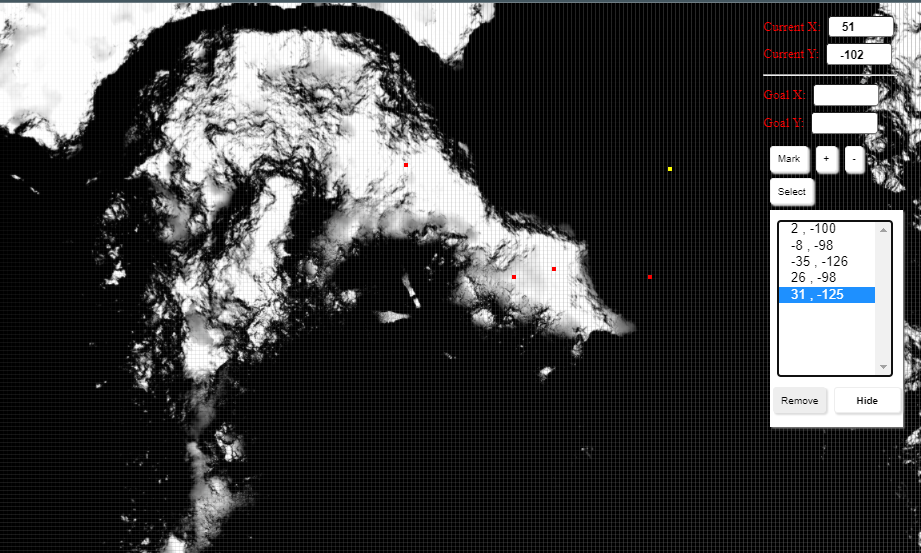
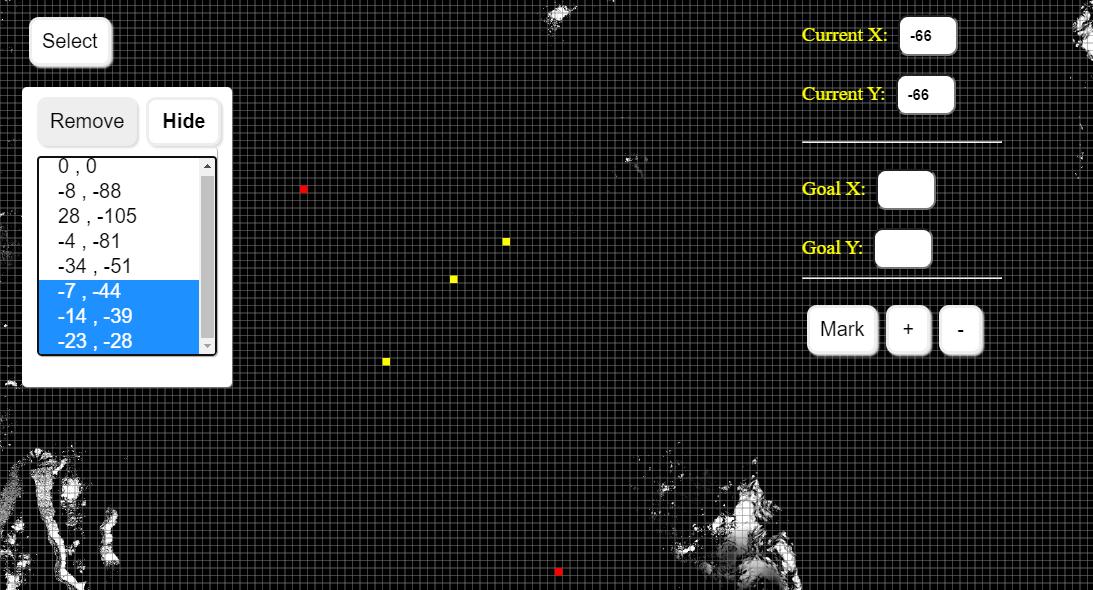
fix:v3.0

diff --git a/index.html b/index.html
@@ -3,14 +3,16 @@
 	<style type="text/css">
 		.map {
 			background-image: url("./map.png");
+            width: 1000px;
+            height: 1000px;
 			background-size:     cover;         
 			background-repeat:   no-repeat;
 			background-position: center center; 
             transition: 100ms;
 		}
 		.img {
-			width: 4000px;
-			height: 4000px;
+			width: 1000px;
+			height: 1000px;
 			position: fixed;
 			top: 0px;
 			left: 0px;
@@ -18,33 +20,33 @@
 		}
 		.edit {
 			display: inline-block;
-			width: 400px;
-			height: 800px;
-			margin-left:80%;
+			width: 200px;
+			height: 400px;
+			margin-left:800px;
 			position: fixed;
-            margin-top: 30px;
+            margin-top: 10px;
 		}
 		label {
-			font-size: 40px;
-			color: red;
+			font-size: 20px;
+			color: yellow;
 		}
 		input {
-			font-size: 35px;
+			font-size: 15px;
 			padding: 10px;
 			border-radius: 10px;
-			width: 200px;
+			width: 60px;
 			font-weight: bold;
-			padding-left: 40px;
-            margin-left: 20px;
+			padding-left: 10px;
+            margin-left: 10px;
 		}
 		.btn , .btn1 {
-			font-size: 30px;
-			padding: 20px;
+			font-size: 20px;
+			padding: 10px;
 			background-color: white;
 			border: 3px solid #eeeeee;
-			box-shadow: 5px 5px 5px #dddddd;
+			box-shadow: 2px 2px 2px #dddddd;
 			border-radius: 10px;
-            margin-left: 20px;
+            margin-left: 5px;
 		}
 		.btn:hover {
 			transform: scale3d(1.1, 1.1 ,1.1);
@@ -56,33 +58,55 @@
 			box-shadow: 5px 5px 5px #dddddd;
 			border: none;
 		}
+        #toggle {
+            width: 75px;
+        }
         .listBox {
-            width: 400px;
-            height: 630px;
+            position: fixed;
+            border-radius: 5px;
+            top: 90px;
+            padding: 5px;
+            padding-top: 10px;
+            width: 200px;
+            height: 280px;
             background-color: #ffffff;
             margin-left: 20px;
             display: none;
-            padding-bottom: 20px;
-            box-shadow: 5px 5px 5px #777777;
+            padding-bottom: 10px;
+            box-shadow: 1px 1px 1px #777777;
         }
     
         .viewlist {
             margin: auto;
-            padding-top: 30px;
+            padding-top: 10px;
             width: 90%;
-            height: 500px;
+            height: 200px;
             overflow: auto;
+            border-radius: 5px;
+            box-shadow: 1px 1px 1px #aaaaaa;
         }
     
         select {
-            width: 350px;
-            height: 470px;
+            width: 180px;
+            height: 200px;
         }
         #removepos {
             margin-left: 10px;
             background-color: #eeeeee;
         }
-        
+        #Clear {
+            position: fixed;
+            top: 20px;
+            left: 30px;
+        }        
+        #zoomOut {
+            padding-left: 15px;
+            padding-right: 15px;
+        }
+        #zoomIn {
+            padding-left: 13px;
+            padding-right: 13px;
+        }
 	</style>
 </head>
 
@@ -94,21 +118,21 @@
 	<label>Current X:</label><input class="input" id="c_x" /> <br /> <br />
 	<label>Current Y:</label><input class="input" id="c_y" /> <br /> <br /> <hr /> <br />
 	<label>Goal X:</label><input class="input" id="g_x" /> <br /> <br />
-	<label>Goal Y:</label><input class="input" id="g_y" /> <br /> <br /> <br />
+	<label>Goal Y:</label><input class="input" id="g_y" /> <br /> <hr /><br />
 	<button class="btn" id="setPos"> Mark </button>
     <button class="btn" id="zoomIn"> + </button>
     <button class="btn" id="zoomOut"> - </button> <br /><br />
-	<button class="btn" id="Clear"> Select </button> <br /><br />
-    <div class="listBox" id="listBox">
-        <div class="viewlist" id="viewlist">
-            <select multiple id="listParent">
-                
-            </select>
-        </div>
-        <div class="Select">
-            <button class="btn1" id="removepos" disabled>Remove</button>
-            <input class="btn1" type="button" value="Hide" id="toggle" disabled/> <br /> <br />
-        </div>
+	
+</div>
+<button class="btn" id="Clear"> Select </button> <br />
+<div class="listBox" id="listBox">
+    <div class="Select">
+        <button class="btn1" id="removepos" disabled>Remove</button>
+        <input class="btn1" type="button" value="Hide" id="toggle" disabled/>
+    </div>
+    <div class="viewlist" id="viewlist">
+        <select multiple id="listParent">
+        </select>
     </div>
 </div>
 </body>
@@ -216,7 +240,7 @@ var drawflag = 1;
                 can.style.top = temptop + (e.clientY - clieckedy) / zoom;
                 can.style.left = templeft + (e.clientX - clieckedx) / zoom;
 
-                console.log("f x:" + clieckedx + "f y:" + clieckedy + "c x:" + e.clientX + "c y:" + e.clientY);
+                // console.log("f x:" + clieckedx + "f y:" + clieckedy + "c x:" + e.clientX + "c y:" + e.clientY);
             }
         });
     }
@@ -253,8 +277,8 @@ var drawflag = 1;
             prevY = currY;
             currX = e.clientX - canvas.getBoundingClientRect().left;
             currY = e.clientY - canvas.getBoundingClientRect().top;
-    		var index_x = Math.floor((currX) / 12);
-    		var index_y = Math.floor((currY) / 12);
+    		var index_x = Math.floor((currX) / 3);
+    		var index_y = Math.floor((currY) / 3);
     		// currX = square_x[index_x] ;
     		// currY = square_y[index_y] ;
     		
@@ -284,8 +308,8 @@ var drawflag = 1;
             prevY = currY;
             currX = e.clientX - canvas.getBoundingClientRect().left;
             currY = e.clientY - canvas.getBoundingClientRect().top;
-    		var index_x = Math.floor((currX) / 12);
-    		var index_y = Math.floor((currY) / 12);
+    		var index_x = Math.floor((currX) / 3);
+    		var index_y = Math.floor((currY) / 3);
     		currX = square_x[index_x] ;
     		currY = square_y[index_y] ; 
             document.getElementById("c_x").value = Math.floor(index_x/zoom) - 166;
@@ -455,7 +479,7 @@ function drawList() {
     for (var j = 0 ; j < save_flag ; j += 1) {
         if(save_x[j + 1] == save_x[j] && save_y[j+1] == save_y[j])
             continue;
-        listParent.innerHTML += "<option style=\"font-size: 40px; padding-left: 40px;+\" id="+j+">"+ (Math.floor((save_x[j]-1992)/12)) +" , "+(Math.floor((save_y[j]-1992)/12))+"</option>";
+        listParent.innerHTML += "<option style=\"font-size: 20px; padding-left: 20px;+\" id="+j+">"+ (Math.floor((save_x[j]-1992)/12)) +" , "+(Math.floor((save_y[j]-1992)/12))+"</option>";
     }
 } 
 
@@ -485,83 +509,83 @@ function StopFlag() {
                 can.style.top = 10;
                 can.style.left = 10;
             }
-            if(zoom == 1 && stopflag < -2630)
+            if(zoom == 1 && stopflag < -109)
             {
-                can.style.top = -2400;
+                can.style.top = -100;
             }
-            if(zoom == 1 && stopflag1 < -1250)
+            if(zoom == 1 && stopflag1 < -36)
             {
-                can.style.left = -1200;
+                can.style.left = -30;
             }
-            if(zoom == 1.3 && stopflag < -3250)
+            if(zoom == 1.3 && stopflag < -285)
             {
-                can.style.top = -3200;
+                can.style.top = -285;
             }
-            if(zoom == 1.3 && stopflag1 < -1850)
+            if(zoom == 1.3 && stopflag1 < -35)
             {
-                can.style.left = -1800;
-            }
-
-            if(zoom == 1.6 && stopflag < -3850)
-            {
-                can.style.top = -3800;
-            }
-            if(zoom == 1.6 && stopflag1 < -2450)
-            {
-                can.style.left = -2400;
+                can.style.left = -30;
             }
 
-            if(zoom < 2 && zoom > 1.9 && stopflag < -4450)
+            if(zoom == 1.6 && stopflag < -498)
             {
-                can.style.top = -4400;
+                can.style.top = -498;
             }
-            if(zoom < 2 && zoom > 1.9 && stopflag1 < -3050)
+            if(zoom == 1.6 && stopflag1 < -346)
             {
-                can.style.left = -3000;
-            }
-
-            if(zoom == 2.2 && stopflag < -5050)
-            {
-                can.style.top = -5000;
-            }
-            if(zoom == 2.2 && stopflag1 < -3650)
-            {
-                can.style.left = -3600;
+                can.style.left = -340;
             }
 
-            if(zoom == 2.5 && stopflag < -5650)
+            if(zoom < 2 && zoom > 1.9 && stopflag < -662)
             {
-                can.style.top = -5600;
+                can.style.top = -662;
             }
-            if(zoom == 2.5 && stopflag1 < -4250)
+            if(zoom < 2 && zoom > 1.9 && stopflag1 < -478)
             {
-                can.style.left = -4200;
+                can.style.left = -470;
             }
 
-            if(zoom == 1.3 && stopflag > 701 || zoom == 1.3 && stopflag1 > 701)
+            if(zoom == 2.2 && stopflag < -805)
             {
-                can.style.top = 600;
-                can.style.left = 600;
+                can.style.top = -805;
             }
-            if(zoom == 1.6 && stopflag > 1300 || zoom == 1.6 && stopflag1 > 1300)
+            if(zoom == 2.2 && stopflag1 < -511)
             {
-                can.style.top = 1200;
-                can.style.left = 1200;
+                can.style.left = -511;
             }
-            if(zoom > 1.9 && zoom < 2 &&stopflag > 1900 || zoom < 1.9 && zoom < 2 && stopflag1 > 1900)
+
+            if(zoom == 2.5 && stopflag < -976)
             {
-                can.style.top = 1800;
-                can.style.left = 1800;
+                can.style.top = -976;
             }
-            if(zoom == 2.2 && stopflag > 2500 || zoom == 2.2 && stopflag1 > 2500)
+            if(zoom == 2.5 && stopflag1 < -817)
             {
-                can.style.top = 2400;
-                can.style.left = 2400;
+                can.style.left = -817;
             }
-            if(zoom == 2.5 && stopflag > 3100 || zoom == 2.5 && stopflag1 > 3100)
+
+            if(zoom == 1.3 && stopflag > 175 || zoom == 1.3 && stopflag1 > 175)
             {
-                can.style.top = 3000;
-                can.style.left = 3000;
+                can.style.top = 170;
+                can.style.left = 170;
+            }
+            if(zoom == 1.6 && stopflag > 316 || zoom == 1.6 && stopflag1 > 316 )
+            {
+                can.style.top = 310;
+                can.style.left = 310;
+            }
+            if(zoom > 1.9 && zoom < 2 &&stopflag > 490 || zoom < 1.9 && zoom < 2 && stopflag1 > 490)
+            {
+                can.style.top = 480;
+                can.style.left = 480;
+            }
+            if(zoom == 2.2 && stopflag > 638 || zoom == 2.2 && stopflag1 > 638 )
+            {
+                can.style.top = 630;
+                can.style.left = 630;
+            }
+            if(zoom == 2.5 && stopflag > 782 || zoom == 2.5 && stopflag1 > 782)
+            {
+                can.style.top = 780;
+                can.style.left = 780;
             }
 }
 
@@ -575,7 +599,6 @@ document.getElementById("zoomOut").addEventListener("click", function() {
   StopFlag();
 
 });
-
 
 </script>
 
